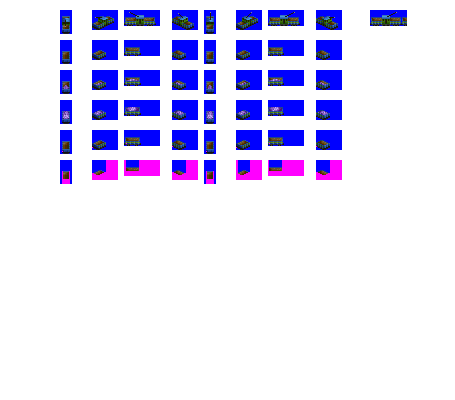
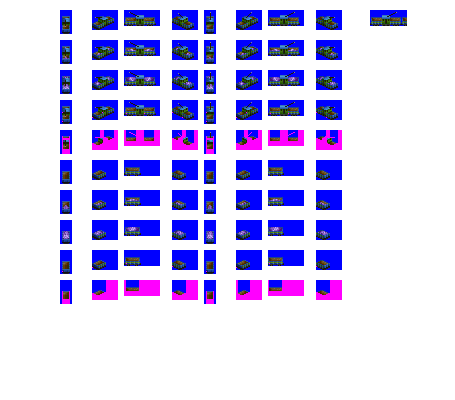
Change: full cargo graphics for Brightling open tram

diff --git a/src/vehicles/brightling.py b/src/vehicles/brightling.py
@@ -12,14 +12,14 @@ consist = OpenHauler(id = 'brightling',
 consist.add_unit(weight = 12,
                 capacity = 40,
                 vehicle_length = 8,
-                effects = ['EFFECT_SPRITE_ELECTRIC, 0, 0, 10'],
-                always_use_same_spriterow = True)
+                cargo_length = 3,
+                effects = ['EFFECT_SPRITE_ELECTRIC, 0, 0, 10'])
 
 consist.add_unit(weight = 4,
                 capacity = 28,
                 vehicle_length = 4,
                 cargo_length = 3,
-                repeat=2)
+                repeat = 2)
 
 consist.add_model_variant(intro_date=0,
                        end_date=global_constants.max_game_date,
